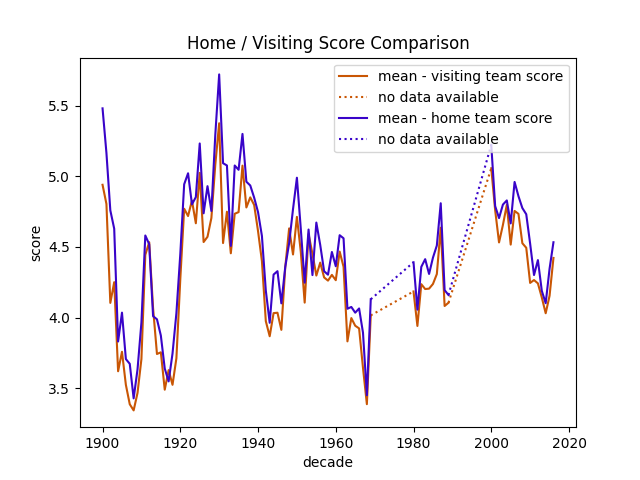
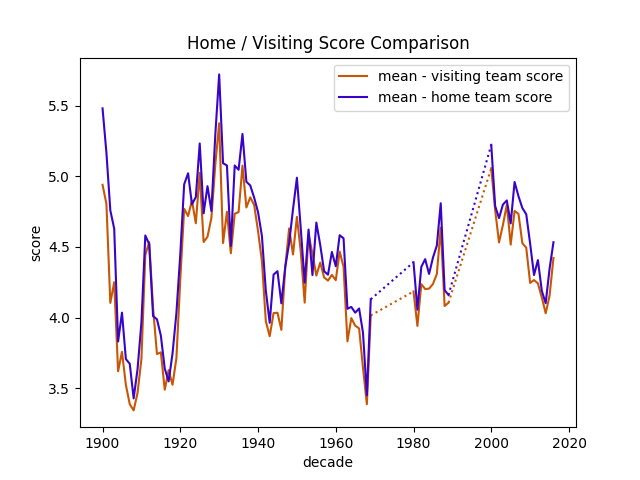
minor updates

Changed region(s): [[0.5312, 0.1875, 0.875, 0.3438]]

diff --git a/final-project/src/plots/score/score_plot.py b/final-project/src/plots/score/score_plot.py
@@ -26,7 +26,7 @@ def v_score_count(df):
     ax.set_ylabel('score')
     ax.set_xlabel('decade')
     plt.title('Visiting Score')
-    plt.legend()
+    plot_sorted_legend()
 
 
 def h_score_count(df):
@@ -44,7 +44,7 @@ def h_score_count(df):
     ax.set_ylabel('score')
     ax.set_xlabel('decade')
     plt.title('Home Score')
-    plt.legend()
+    plot_sorted_legend()
 
 
 def vh_score_comparison(df):
@@ -65,23 +65,10 @@ def vh_score_comparison(df):
 
 
 def winning_teams(df):
-    bug = df[df['v_name_translate'] == 'Washington - Nationals']
-    bug2 = df[df['h_name_translate'] == 'Washington - Nationals']
-
     win_stats = extract_win_stats(df)
-    # win_avg = calc_win_averages(df)
 
-    # home_games_won_per_year = win_stats['home_games_won_per_year']
-    # home_games_won_total = win_stats['home_games_won_total']
-    # visiting_games_won_per_year = win_stats['visiting_games_won_per_year']
-    # visiting_games_won_total = win_stats['visiting_games_won_total']
     overall_games_won_per_year = win_stats['overall_games_won_per_year']
     overall_games_won_total = win_stats['overall_games_won_total']
-
-    # win_avg_per_year_per_team = win_avg['win_avg_per_year_per_team']
-    # win_avg_total_per_team = win_avg['win_avg_total_per_team']
-    # visiting_games_win_avg_per_year_per_team = win_avg['visiting_games_win_avg_per_year_per_team']
-    # home_games_win_avg_per_year_per_team = win_avg['home_games_win_avg_per_year_per_team']
 
     max_total_team = max(overall_games_won_total, key=overall_games_won_total.get)
     min_total_team = min(overall_games_won_total, key=overall_games_won_total.get)
@@ -111,34 +98,105 @@ def winning_teams(df):
             best_year = curr_best_year
 
     highlighted_teams = {
-        max_total_team: "total - most wins: %s - %s" % (max_total_team, overall_games_won_total[max_total_team]),
-        min_total_team: "total - least wins: %s - %s" % (min_total_team, overall_games_won_total[min_total_team]),
-        best_team_yearly: "most wins in one year: %s, %s - %s" % (best_team_yearly, best_year, best_score_yearly),
-        worst_team_yearly: "least wins in one year: %s, %s - %s" % (worst_team_yearly, worst_year, worst_score_yearly),
+        "total - most wins: %s - %s" % (max_total_team, overall_games_won_total[max_total_team]): max_total_team,
+        "total - least wins: %s - %s" % (min_total_team, overall_games_won_total[min_total_team]): min_total_team,
+        "most wins in one year: %s, %s - %s" % (best_team_yearly, best_year, best_score_yearly): best_team_yearly,
+        "least wins in one year: %s, %s - %s" % (worst_team_yearly, worst_year, worst_score_yearly): worst_team_yearly,
     }
 
     log.debug('highlighted_teams: %s', highlighted_teams)
     log.debug('win_stats: %s', pprint.pformat(win_stats))
 
     fig, ax = plt.subplots(figsize=(10, 5))
-    # ax.set_title('Wins Per Year')
-    colors = iter(['red', 'green', 'purple', 'blue'])
     for curr_team, win_stats in overall_games_won_per_year.items():
-        if curr_team in highlighted_teams:
-            # ax.plot(win_stats.keys(), win_stats.values(), label=highlighted_teams[curr_team])
-            plt_with_disruption(ax, win_stats.keys(), win_stats.values(),
-                                c=next(colors), label=highlighted_teams[curr_team], error_label='_nolegend_')
-        else:
-            # ax.plot(win_stats.keys(), win_stats.values(), c=cm.gray(0.8), alpha=0.2, zorder=-1)
-            plt_with_disruption(ax, win_stats.keys(), win_stats.values(),
-                                c=cm.gray(0.8), alpha=0.2, error_label='_nolegend_')
+        plt_with_disruption(ax, win_stats.keys(), win_stats.values(),
+                            c=cm.gray(0.8), alpha=0.2, error_label='_nolegend_')
+
+    colors = iter(['red', 'green', 'purple', 'blue'])
+    for curr_descr, curr_team in highlighted_teams.items():
+        # ax.plot(win_stats.keys(), win_stats.values(), label=highlighted_teams[curr_team])
+        curr_win_stats = overall_games_won_per_year[curr_team]
+        plt_with_disruption(ax, curr_win_stats.keys(), curr_win_stats.values(),
+                            c=next(colors), label=curr_descr)
 
     plt.title('Wins Per Year')
     plt.ylim(0, 140)
     ax.set_ylabel('wins')
     ax.set_xlabel('decade')
-    plt.legend()
+    plot_sorted_legend()
 
 
 def win_ratio_teams(df):
-    win_ratio_per_year = extract_win_stats(df)[2:5]
+    win_averages = calc_win_averages(df)
+    win_avg_per_year_per_team = win_averages['win_avg_per_year_per_team']
+
+    win_avg_total_per_team = win_averages['win_avg_total_per_team']
+
+    max_total_team = max(win_avg_total_per_team, key=win_avg_total_per_team.get)
+    min_total_team = min(win_avg_total_per_team, key=win_avg_total_per_team.get)
+
+    worst_avg_yearly = 1
+    worst_team_yearly = ''
+    worst_year = 0
+
+    best_avg_yearly = 0
+    best_team_yearly = ''
+    best_year = 0
+
+    for curr_team, win_avg_per_year in win_avg_per_year_per_team.items():
+
+        curr_worst_year = min(win_avg_per_year, key=win_avg_per_year.get)
+        curr_worst_score = win_avg_per_year[curr_worst_year]
+        if curr_worst_score < worst_avg_yearly:
+            worst_team_yearly = curr_team
+            worst_avg_yearly = curr_worst_score
+            worst_year = curr_worst_year
+
+        curr_best_year = max(win_avg_per_year, key=win_avg_per_year.get)
+        curr_best_score = win_avg_per_year[curr_best_year]
+        if curr_best_score > best_avg_yearly:
+            best_team_yearly = curr_team
+            best_avg_yearly = curr_best_score
+            best_year = curr_best_year
+
+    highlighted_teams = {
+        "best average over all time: %s - %.2f" % (
+        max_total_team, win_avg_total_per_team[max_total_team]): max_total_team,
+        "worst average over all time: %s - %.2f" % (
+        min_total_team, win_avg_total_per_team[min_total_team]): min_total_team,
+        "best average in one year: %s, %s - %.2f" % (best_team_yearly, best_year, best_avg_yearly): best_team_yearly,
+        "worst average in one year: %s, %s - %.2f" % (
+        worst_team_yearly, worst_year, worst_avg_yearly): worst_team_yearly,
+    }
+
+    fig, ax = plt.subplots(figsize=(10, 5))
+    for curr_team, curr_stats in win_avg_per_year_per_team.items():
+        plt_with_disruption(ax, list(curr_stats.keys()), list(curr_stats.values()),
+                            c=cm.gray(0.8), alpha=0.2, label='_nolegend_')
+
+    colors = iter(['red', 'green', 'purple', 'blue'])
+    for curr_descr, curr_team in highlighted_teams.items():
+        curr_team_stats = win_avg_per_year_per_team[curr_team]
+        plt_with_disruption(ax, curr_team_stats.keys(), curr_team_stats.values(),
+                            c=next(colors), label=curr_descr)
+
+    plt.xlabel('decade')
+    plt.ylabel('win average per team')
+    plt.title('Win Average Per Team')
+    plt.ylim((0.2, 0.9))
+    plt.legend()
+
+def home_win_avg(df):
+    win_averages = calc_win_averages(df)
+    home_games_win_avg_per_year_per_team = win_averages['home_games_win_avg_per_year_per_team']
+
+    fig, ax = plt.subplots()
+
+    for curr_team, win_avg in home_games_win_avg_per_year_per_team.items():
+        plt_with_disruption(ax, win_avg.keys(), win_avg.values())
+
+    ax.set_ylabel('win average')
+    ax.set_xlabel('decade')
+    plt.title('Win Average - Home Games')
+    plt.legend()
+

diff --git a/final-project/src/vis_main.py b/final-project/src/vis_main.py
@@ -1,7 +1,7 @@
 from src.plots.meta import event_plot
 from src.plots.meta import teams_plot
 from src.plots.score import score_plot
-from src.utils.graph_data_io import read_game_logs, export_graph
+from src.utils.graph_data_io import *
 
 df = read_game_logs()
 
@@ -9,10 +9,14 @@ df = read_game_logs()
 # export_graph(score_plot.h_score_count, df)
 # export_graph(score_plot.vh_score_comparison, df)
 # export_graph(score_plot.winning_teams, df)
-
+#
 # export_graph(event_plot.data_per_year, df)
 # export_graph(event_plot.attendance_per_year, df)
 # export_graph(event_plot.games_per_year_per_team, df)
 #
 # export_graph(teams_plot.active_teams_per_year, df)
 # export_graph(teams_plot.comparing_games_played_with_active_teams_per_year, df)
+#
+# export_graph(score_plot.win_ratio_teams, df)
+
+export_graph(score_plot.home_win_avg, df)

diff --git a/final-project/src/utils/styling_utils.py b/final-project/src/utils/styling_utils.py
@@ -6,10 +6,13 @@ import random
 from src.utils.logging_config import log
 
 
-# TODO create custom color pallet etc.
+def plot_sorted_legend():
+    handles, labels = plt.gca().get_legend_handles_labels()
+    labels, handles = zip(*sorted(zip(labels, handles)))
+    plt.legend(handles, labels)
 
 def plt_with_disruption(plt_root, x, y, c='#2b2b2b', alpha=1.0,
-                        label='_nolegend_', error_label='no data available'):
+                        label='_nolegend_', error_label='_nolegend_'):
     x = list(x)
     y = list(y)
     # Find the indices where there are gaps in x-values
